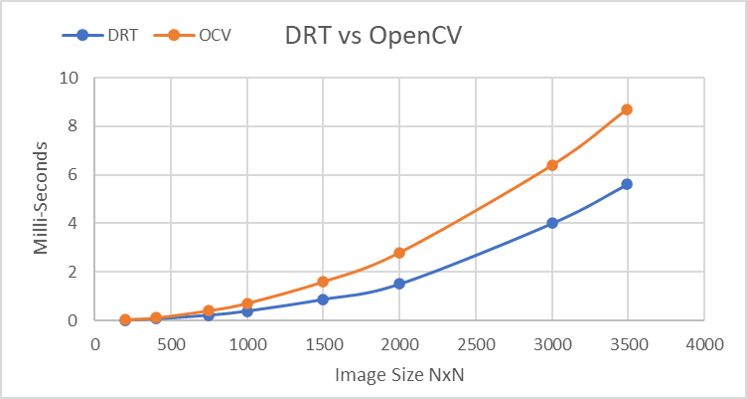
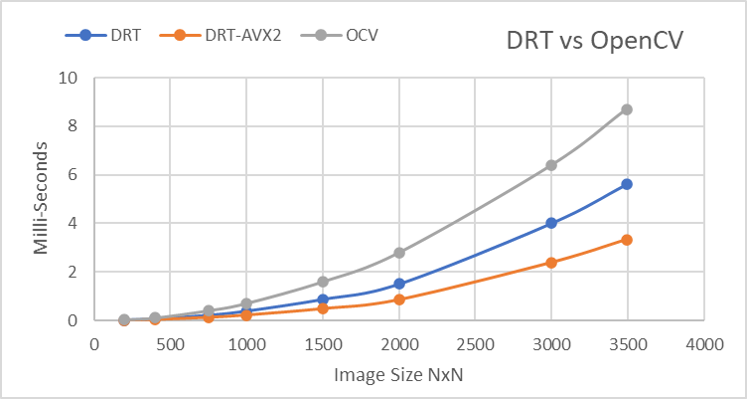
Timings

diff --git a/README.md b/README.md
@@ -6,5 +6,5 @@ For a grayscale image or pixel array of size (N, M), the calculation of raw imag
 More information can be found [here](https://en.wikipedia.org/wiki/Image_moment)
 
 ### The Discrete Radon Transformation
-The DRT reduces this problem from 2D moments of an NxM array, to 1D moments of 4 projection arrays. The original image can be projected vertically, horizontally and at 45, 135 degrees, and summed along those axes. The raw moments then become linear combinations of 1D moments of these arrays and there is no loss of information. This reduces the number of multiplications from O(NM) to O(N+M). See the timings on an Intel Core i5 7th Gen (Note, the OpenCV algorithms and resultant timings are SSE2/AVX optimised, the DRT algorithm and times are not): 
+The DRT reduces this problem from 2D moments of an NxM array, to 1D moments of 4 projection arrays. The original image can be projected vertically, horizontally and at 45, 135 degrees, and summed along those axes. The raw moments then become linear combinations of 1D moments of these arrays and there is no loss of information. This reduces the number of multiplications from O(NM) to O(N+M). See the timings on an Intel Core i5 7th Gen (Note, the OpenCV algorithms and resultant timings are SSE2/AVX optimised, the DRT algorithm and times are shown with and without: 
 ![Timings](https://github.com/wild-ig/drt_moments/raw/master/DRTvsOpenCV.png)
